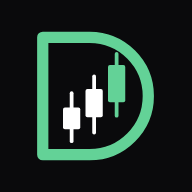
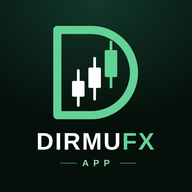
Ikon aplikasi baru dengan tulisan DIRMUFX APP
Claude-Session: https://claude.ai/code/session_01RhVVSaTBMUw1rvuWPn66ar

diff --git a/index.html b/index.html
@@ -5,10 +5,10 @@
 <meta name="viewport" content="width=device-width,initial-scale=1,viewport-fit=cover">
 <meta name="theme-color" content="#0a0a0c">
 <link rel="manifest" href="manifest.json">
-<link rel="apple-touch-icon" href="apple-touch-icon.png">
+<link rel="apple-touch-icon" href="apple-touch-icon.png?v=2">
 <meta name="apple-mobile-web-app-capable" content="yes">
 <meta name="mobile-web-app-capable" content="yes">
-<meta name="apple-mobile-web-app-title" content="DirmuFX">
+<meta name="apple-mobile-web-app-title" content="DirmuFX App">
 <meta name="apple-mobile-web-app-status-bar-style" content="black">
 <title>DirmuFX · Komunitas trading forex, emas & crypto</title>
 <meta name="description" content="Komunitas trading DirmuFX: analisa forex, emas (XAUUSD), dan crypto, sinyal, kalender berita, kalkulator risiko, dan akademi trading dari nol.">

diff --git a/pasang.html b/pasang.html
@@ -9,7 +9,7 @@
 <meta property="og:title" content="Pasang aplikasi DirmuFX di HP kamu">
 <meta property="og:description" content="Sekali pasang, buka sinyal & analisa langsung dari ikon di layar utama.">
 <link rel="manifest" href="manifest.json">
-<link rel="apple-touch-icon" href="apple-touch-icon.png">
+<link rel="apple-touch-icon" href="apple-touch-icon.png?v=2">
 <link rel="icon" href="icon-192.png">
 <link rel="preconnect" href="https://fonts.googleapis.com">
 <link rel="stylesheet" href="https://fonts.googleapis.com/css2?family=Inter:wght@400;500;600;700&family=Inter+Tight:wght@500;600;700&family=Plus+Jakarta+Sans:wght@400;500;600;700;800&display=swap">
